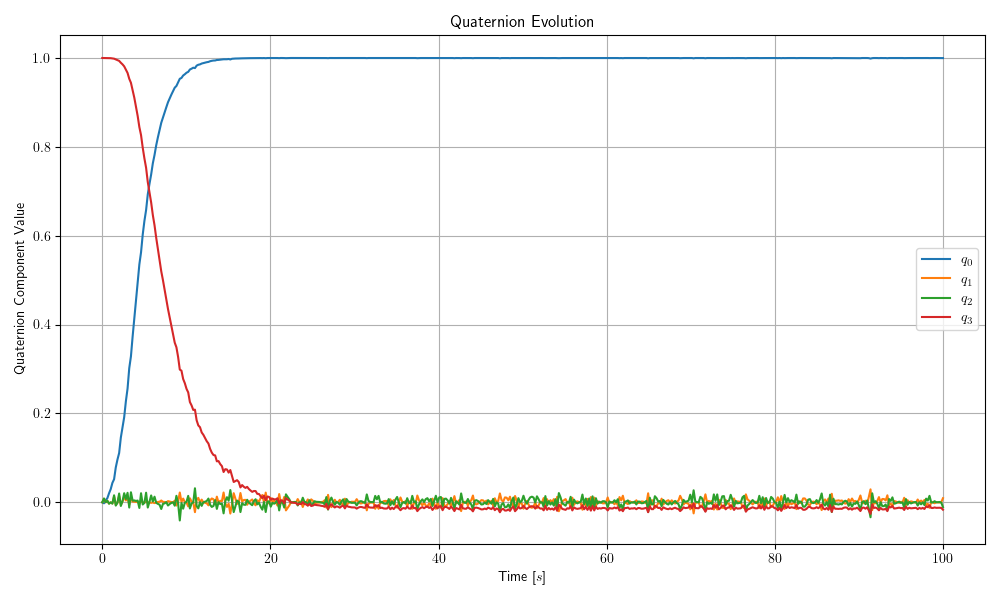
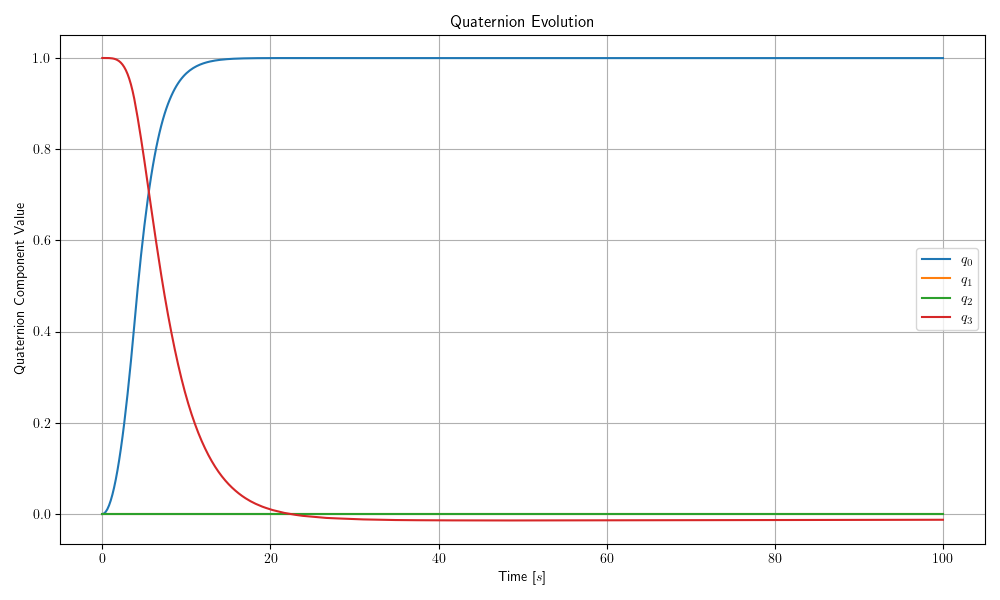
Final Version Commit

diff --git a/Assignment 9/main_9.py b/Assignment 9/main_9.py
@@ -9,12 +9,6 @@ from scipy.integrate import solve_ivp
 def cumtrapz_custom(y, x, initial=0):
     """
     Compute the cumulative integral of y with respect to x using the trapezoidal rule.
-    Parameters:
-      y: array-like, the function values.
-      x: array-like, the sample points corresponding to y.
-      initial: float, initial value of the integration.
-    Returns:
-      cumulative integral array of the same length as y.
     """
     y = np.asarray(y)
     x = np.asarray(x)
@@ -68,10 +62,9 @@ from quest_algorithm_9 import (
     match_quaternion_sign_to_reference,
     measure_sensor,
 )
-
 from actuators_9 import (
     attitude_control_using_thrusters,
-    attitude_control_using_magnetic_torquers,
+    attitude_control_using_magnetic_torquers,  # Modified function returns (tau_a_b, coil_currents)
     attitude_control_using_reaction_wheels_in_tethrahedron,
 )
 
@@ -85,23 +78,10 @@ directory_path = "Assignment 9/"
 def satellite_dynamics(t, state, params):
     """
     Compute satellite dynamics including orbital propagation, attitude dynamics,
-    and actuation. The state vector structure depends on the actuator type.
-
-    For thrusters or magnetic torquers (actuator in {"thrusters", "magnetic_torquer"}):
-      state[0]   : True anomaly (rad)
-      state[1:5] : Quaternion (body with respect to orbit)
-      state[5:8] : Angular velocity in body frame (rad/s)
-
-    For reaction wheels (actuator == "reaction_wheel"):
-      state[0]   : True anomaly (rad)
-      state[1:5] : Quaternion (body with respect to orbit)
-      state[5:8] : Angular velocity in body frame (rad/s)
-      state[8:12]: Reaction wheel speeds (rad/s)
+    and actuation.
     """
     # Unpack state vector and parameters
     actuator = params.get("actuator", "thrusters")
-
-    # Unpack state vector based on actuator type.
     true_anomaly = state[0]
     q_ob = state[1:5]
     omega_b = state[5:8]
@@ -140,7 +120,6 @@ def satellite_dynamics(t, state, params):
     e = calculate_eccentricity(ra, rp)
     n = calculate_mean_motion(a, mu)
     true_anomaly_dot = calculate_true_anomaly_derivative(e, true_anomaly, n)
-
     M = n * (t - t0)
     E = calculate_eccentric_anomaly(M, e)
     R_pqw = calculate_rotation_matrix_from_inertial_to_pqw(arg_perigee, raan, incl)
@@ -159,7 +138,6 @@ def satellite_dynamics(t, state, params):
         arg_perigee, raan, incl, true_anomaly
     )
     R_i_o = calculate_rotation_matrix_from_quaternion(q_io)
-    # Compute body-to-orbit rotation matrix from the current attitude (q_ob)
     R_b_o = calculate_rotation_matrix_from_quaternion(q_ob).T
 
     # ----------------------------
@@ -178,17 +156,14 @@ def satellite_dynamics(t, state, params):
     # Sensor measurements (Magnetic field and Sun vector)
     # ----------------------------
     current_date = init_datetime + timedelta(seconds=t)
-    # Magnetic field measurement
     B_ENU, B_o = calculate_magnetic_field_in_orbit_frame(
         r_inertial, current_date, arg_perigee, true_anomaly, raan, incl, t
     )
     B_ENU, B_o = B_ENU * 1e9, B_o * 1e9  # Convert to nT
     B_b = R_b_o @ B_o
     B_b_mesured = measure_sensor(B_b, np.radians(5))
-    # Solar vector measurement
     s_i = calculate_advanced_sun_vector_model(t, init_datetime)
-    # Convert sun vector s_i from AU to km (1 AU = 149597870.7 km)
-    s_i = np.array(s_i) * 149597870.7
+    s_i = np.array(s_i) * 149597870.7  # Convert from AU to km
     s_o = R_i_o.T @ np.array(s_i)
     s_b = R_b_o @ s_o
     s_b_mesured = measure_sensor(s_b, np.radians(0.01))
@@ -205,18 +180,20 @@ def satellite_dynamics(t, state, params):
     # ----------------------------
     tau_d_b = pd_attitude_controller(q_ob, omega_b, quat_desired, omega_desired, kp, kd)
 
-    # Now choose which actuator to use based on the simulation parameters.
+    # ----------------------------
+    # Actuator selection and computation
+    # ----------------------------
     if actuator == "thrusters":
-        # Use thrusters (bang-bang actuation); note: max_thrust can be adjusted as desired.
         tau_a_b, thruster_firings = attitude_control_using_thrusters(
             tau_d_b, max_thrust=0.5
         )
     elif actuator == "magnetic_torquer":
-        # Use magnetic torquers; note: the function uses the local magnetic field B_b.
-        tau_a_b = attitude_control_using_magnetic_torquers(tau_d_b, B_b, A, N, i_max)
+        # Now capture both the actuation torque and the coil currents.
+        tau_a_b, coil_currents = attitude_control_using_magnetic_torquers(
+            tau_d_b, B_b, A, N, i_max
+        )
         thruster_firings = None
     elif actuator == "reaction_wheel":
-        # Use reaction wheels. For reaction wheels, the state vector must include wheel speeds.
         w_bw = state[8:12]
         w_bw_dot, tau_a_b = attitude_control_using_reaction_wheels_in_tethrahedron(
             tau_d_b, omega_b, w_bw, params["J_w"], params["max_RPM"]
@@ -274,8 +251,10 @@ def satellite_dynamics(t, state, params):
     # Log actuator-specific data
     if actuator == "thrusters":
         log_entry["thruster_firings"] = thruster_firings
-    if actuator == "reaction_wheel":
+    elif actuator == "reaction_wheel":
         log_entry["w_bw"] = w_bw
+    elif actuator == "magnetic_torquer":
+        log_entry["coil_currents"] = coil_currents
 
     # ----------------------------
     # Construct state derivative vector based on actuator type.
@@ -305,7 +284,6 @@ def run_simulation(params, initial_state, t_span, n_steps):
     t = result.t
     state_vector = result.y
 
-    # Build the data log dictionary.
     # Choose keys based on actuator type.
     actuator = params["actuator"]
     if actuator == "reaction_wheel":
@@ -381,6 +359,7 @@ def run_simulation(params, initial_state, t_span, n_steps):
             "s_o",
             "tau_d_b",
             "tau_a_b",
+            "coil_currents",
         ]
 
     data_log = {key: [] for key in keys}
@@ -396,7 +375,6 @@ def run_simulation(params, initial_state, t_span, n_steps):
 def get_simulation_params(mu_value, earth_radius, q_ob_init, actuator):
     """
     Set simulation parameters.
-    For reaction wheels, additional parameters (J_w and max_RPM) are provided.
     """
     params = {
         "iteration": 0,
@@ -420,7 +398,6 @@ def get_simulation_params(mu_value, earth_radius, q_ob_init, actuator):
         "A": 1.0,
         "i_max": 0.1,
     }
-    # For reaction wheels, add reaction wheel specific parameters.
     if params["actuator"] == "reaction_wheel":
         params["J_w"] = 0.1
         params["max_RPM"] = 20000
@@ -455,9 +432,6 @@ def plot_quaternion_evolution(
 def plot_attitude_evolution(
     filename, attitude_log, time_vector=None, title="Attitude Evolution (Euler Angles)"
 ):
-    """
-    Plots the satellite's attitude evolution in terms of Euler angles (roll, pitch, yaw).
-    """
     attitude_log = np.array(attitude_log)
     n_steps = attitude_log.shape[0]
     if time_vector is None:
@@ -479,14 +453,6 @@ def plot_attitude_evolution(
 def plot_reaction_wheel_speeds(
     filename, time_vector, reaction_wheel_log, title="Reaction Wheel Speeds Over Time"
 ):
-    """
-    Plots the reaction wheel speeds over time.
-
-    Parameters:
-        filename: Path to save the plot.
-        time_vector: Array of time values.
-        reaction_wheel_log: 2D array of reaction wheel speeds, each column corresponds to a wheel.
-    """
     reaction_wheel_log = np.array(reaction_wheel_log)
     plt.figure(figsize=(8, 5))
     for i in range(reaction_wheel_log.shape[1]):
@@ -546,13 +512,34 @@ def plot_propellant_consumption(
     plt.show()
 
 
+# --- New Plot Function for Coil Currents ---
+def plot_coil_currents(
+    filename, time_vector, coil_currents_log, title="Coil Currents Over Time"
+):
+    """
+    Plots the coil currents (one curve per coil) over time.
+    """
+    coil_currents_log = np.array(coil_currents_log)
+    plt.figure(figsize=(8, 5))
+    for i in range(coil_currents_log.shape[1]):
+        plt.plot(time_vector, coil_currents_log[:, i], label=f"Coil {i+1}")
+    plt.xlabel("Time (s)")
+    plt.ylabel("Current (A)")
+    plt.title(title)
+    plt.legend()
+    plt.grid(True)
+    plt.tight_layout()
+    plt.savefig(filename)
+    plt.show()
+
+
 # -------------------------------------------------------------------------------
 # Main function
 # -------------------------------------------------------------------------------
 def main():
 
-    # Select actuator type here: "thrusters", "magnetic_torquer", or "reaction_wheel"
-    actuator = "reaction_wheel"
+    # Set actuator type here. Choose between "thrusters", "reaction_wheel", or "magnetic_torquer".
+    actuator = "thrusters"
 
     # Constants
     mu_value = 398600.4418
@@ -564,7 +551,7 @@ def main():
     w_ob_b_init = np.array([0.0, 0.0, 0.0])
     w_bw0 = (2 * np.pi / 60) * np.array([2000, -3000, 5000, 1000])
 
-    # Get simulation parameters. Change the actuator type here if desired.
+    # Get simulation parameters.
     params = get_simulation_params(mu_value, earth_radius, q_ob_init, actuator)
 
     # Initial state based on actuator type.
@@ -582,12 +569,12 @@ def main():
     # Plot quaternion evolution with custom title.
     plot_quaternion_evolution(
         filename=f"{directory_path}quaternion_evolution_{actuator}.png",
-        quaternion_log=data_log["q_ob_hat"],
+        quaternion_log=data_log["q_ob"],
         time_vector=data_log["time"],
         title=f"{actuator.capitalize()} - Quaternion Evolution",
     )
 
-    # If thrusters are used, plot the thruster firings and propellant consumption.
+    # Plot actuator-specific data.
     if params["actuator"] == "thrusters":
         plot_thruster_firings(
             filename=f"{directory_path}thruster_firings.png",
@@ -603,13 +590,20 @@ def main():
             g=9.81,
             title=f"{actuator.capitalize()} - Propellant Consumption",
         )
-
     elif params["actuator"] == "reaction_wheel":
         plot_reaction_wheel_speeds(
             filename=f"{directory_path}reaction_wheel_speeds.png",
             time_vector=data_log["time"],
             reaction_wheel_log=data_log["w_bw"],
             title=f"{actuator.capitalize()} - Reaction Wheel Speeds",
+        )
+    elif params["actuator"] == "magnetic_torquer":
+        # --- New plotting for coil currents ---
+        plot_coil_currents(
+            filename=f"{directory_path}coil_currents.png",
+            time_vector=data_log["time"],
+            coil_currents_log=data_log["coil_currents"],
+            title=f"{actuator.capitalize()} - Coil Currents Over Time",
         )
 
     # Visualization (choose static scene or animation)
@@ -619,10 +613,9 @@ def main():
         plotter.show()
     else:
         filename = (
-            f"{directory_path}"
-            f"SatelliteAnimation_i{round(params['i'],2)}_omega{round(params['omega'],2)}"
-            f"_OMEGA{round(params['OMEGA'],2)}_q{np.round(params['q_od'],2)}_"
-            f"{round(t_span[1] / 3600,2)}h_{n_steps}steps.gif"
+            f"{directory_path}SatelliteAnimation_i{round(params['i'],2)}"
+            f"_omega{round(params['omega'],2)}_OMEGA{round(params['OMEGA'],2)}"
+            f"_q{np.round(params['q_od'],2)}_{round(t_span[1] / 3600,2)}h_{n_steps}steps.gif"
         )
         animate_satellite(result.t, data_log, filename)
 

diff --git a/Assignment 9/actuators_9.py b/Assignment 9/actuators_9.py
@@ -87,7 +87,8 @@ def attitude_control_using_reaction_wheels_in_tethrahedron(
 def attitude_control_using_magnetic_torquers(tau_d_b, b_b, A, N, i_max):
     """
     Computes the actuation torque from magnetic torquers given the desired torque,
-    local magnetic field, coil area, number of turns, and maximum current.
+    local magnetic field, coil area, number of turns, and maximum current. Also returns
+    the saturated coil currents.
 
     Parameters
     ----------
@@ -106,16 +107,27 @@ def attitude_control_using_magnetic_torquers(tau_d_b, b_b, A, N, i_max):
     -------
     tau_a_b : numpy.ndarray
         Actuation torque computed from the magnetic torquer model (shape: (3,)).
+    currents : numpy.ndarray
+        Saturated currents for each coil (shape: (3,)).
     """
     tau_d_b = np.asarray(tau_d_b).flatten()
     b_b = np.asarray(b_b).flatten()
     norm_b2 = np.dot(b_b, b_b)
     if norm_b2 < 1e-8:
-        return np.zeros(3)
+        # If the magnetic field is nearly zero, return zeros for both outputs.
+        return np.zeros(3), np.zeros(3)
+
+    # Compute the magnetic moment required
     m_b = S(b_b) @ tau_d_b / norm_b2
+    # Calculate the currents from the magnetic moment
     currents = m_b / (N * A)
+    # Saturate the currents to the maximum allowable value
     currents_sat = np.clip(currents, -i_max, i_max)
+    # Compute the saturated magnetic moment
     m_b_sat = N * A * currents_sat
+    # Compute the actuation torque using the cross-product matrix S
     tau_b_m = S(m_b_sat) @ b_b
+    # Preserve the direction of the desired torque while using the magnitude from tau_b_m
     tau_a_b = np.sign(tau_d_b) * np.abs(tau_b_m)
-    return tau_a_b
+
+    return tau_a_b, currents_sat

diff --git a/Assignment 8/main_8.py b/Assignment 8/main_8.py
@@ -427,7 +427,7 @@ def main():
     # Plot quaternion evolution using the logged data
     plot_quaternion_evolution(
         filename=f"{directory_path}quaternion_evolution.png",
-        quaternion_log=data_log["q_ob_hat"],
+        quaternion_log=data_log["q_ob"],
         time_vector=data_log["time"],
     )
 

diff --git a/Assignment 7/main_7.py b/Assignment 7/main_7.py
@@ -230,6 +230,8 @@ def run_simulation(params, initial_state, t_span, n_steps):
         method="RK45",
         t_eval=np.linspace(t_span[0], t_span[1], n_steps),
         args=(params,),
+        atol=1e-4,
+        rtol=1e-2,
     )
     t = result.t
     state_vector = result.y
